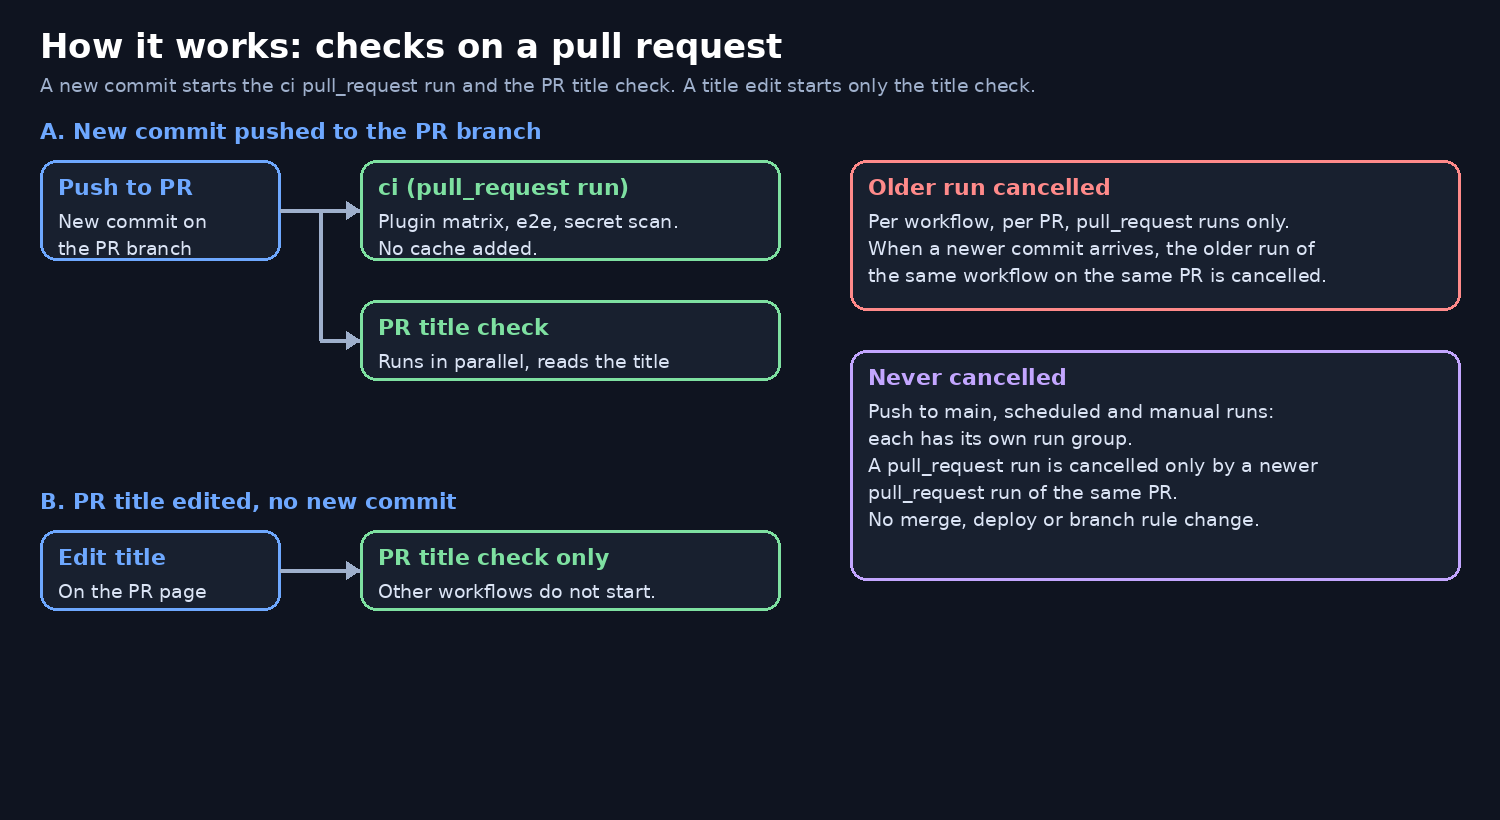
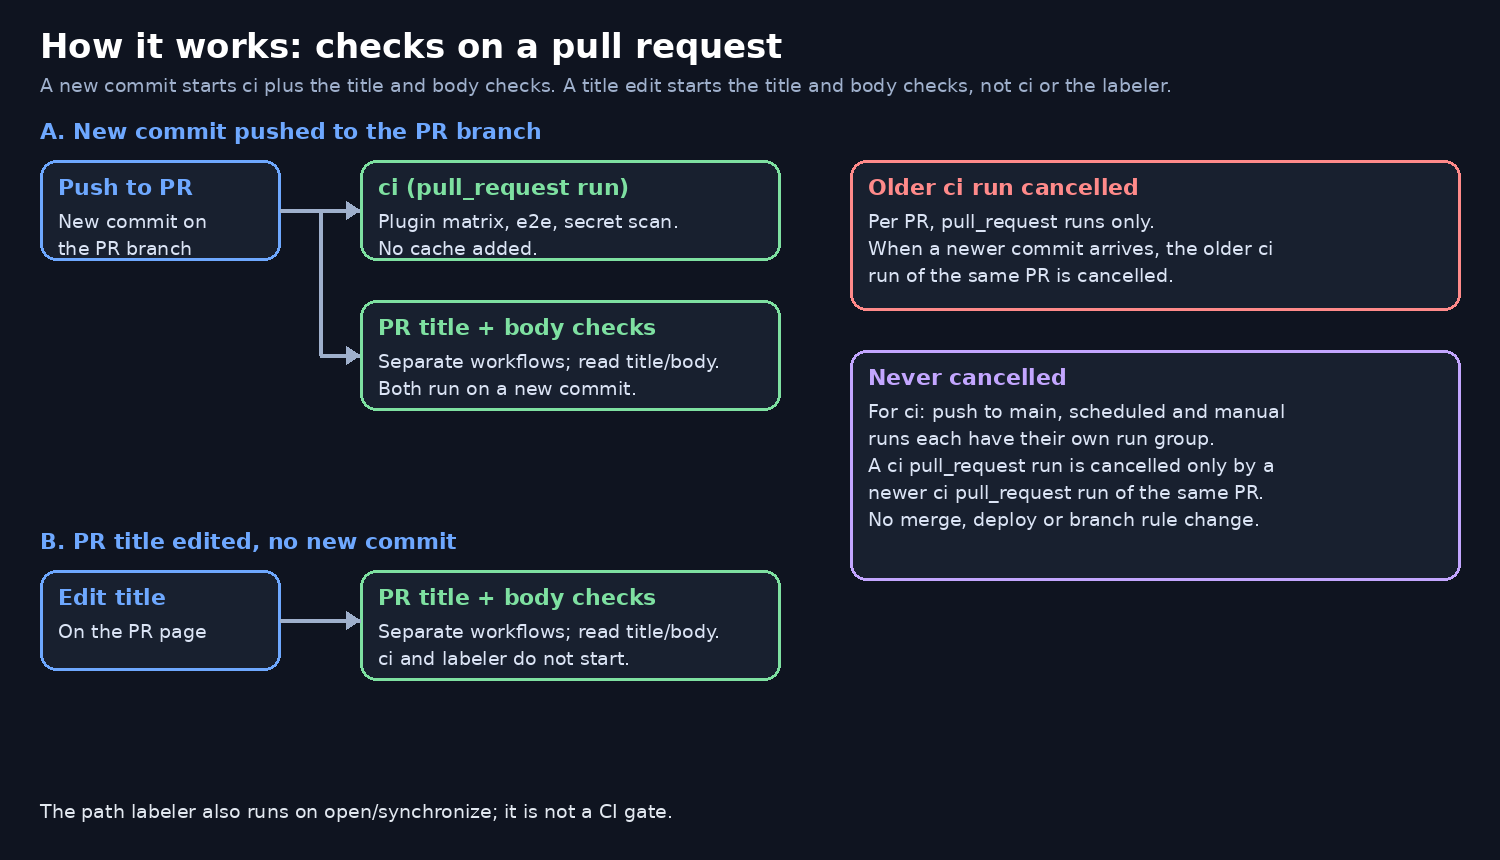
docs(ci): show title and body checks in the flow diagram
Current main adds pr-body-check on edited events, so the old "title check only" flow was stale.

🤖 Generated with Codebuff

diff --git a/docs/flows/ci-flow.py b/docs/flows/ci-flow.py
@@ -3,47 +3,48 @@ import os
 
 # Regenerates docs/assets/ci-flow.png. Needs Pillow (pip install pillow).
 # Run from anywhere: python3 docs/flows/ci-flow.py
-def font(names,size):
+def font(names, size):
     for n in names:
-        try: return ImageFont.truetype(n,size)
+        try: return ImageFont.truetype(n, size)
         except OSError: pass
     try: return ImageFont.load_default(size)
     except TypeError: return ImageFont.load_default()  # Pillow < 10.1 has no size argument
 
-DEJAVU="/usr/share/fonts/truetype/dejavu/"
-MAC="/System/Library/Fonts/Supplemental/"
-REG=["DejaVuSans.ttf",DEJAVU+"DejaVuSans.ttf","Arial.ttf",MAC+"Arial.ttf","C:/Windows/Fonts/arial.ttf"]
-BOLD=["DejaVuSans-Bold.ttf",DEJAVU+"DejaVuSans-Bold.ttf","Arial Bold.ttf",MAC+"Arial Bold.ttf","C:/Windows/Fonts/arialbd.ttf"]
+DEJAVU = "/usr/share/fonts/truetype/dejavu/"
+MAC = "/System/Library/Fonts/Supplemental/"
+REG = ["DejaVuSans.ttf", DEJAVU + "DejaVuSans.ttf", "Arial.ttf", MAC + "Arial.ttf", "C:/Windows/Fonts/arial.ttf"]
+BOLD = ["DejaVuSans-Bold.ttf", DEJAVU + "DejaVuSans-Bold.ttf", "Arial Bold.ttf", MAC + "Arial Bold.ttf", "C:/Windows/Fonts/arialbd.ttf"]
 
-W,H=1500,820
-im=Image.new("RGB",(W,H),"#0f1420"); d=ImageDraw.Draw(im)
-t=font(BOLD,34); b=font(BOLD,22); s=font(REG,19)
-G="#9fb0cc"
-d.text((40,26),"How it works: checks on a pull request",font=t,fill="#ffffff")
-d.text((40,74),"A new commit starts the ci pull_request run and the PR title check. A title edit starts only the title check.",font=s,fill=G)
+W, H = 1500, 860
+im = Image.new("RGB", (W, H), "#0f1420"); d = ImageDraw.Draw(im)
+t = font(BOLD, 34); b = font(BOLD, 22); s = font(REG, 19)
+G = "#9fb0cc"
+d.text((40, 26), "How it works: checks on a pull request", font=t, fill="#ffffff")
+d.text((40, 74), "A new commit starts ci plus the title and body checks. A title edit starts the title and body checks, not ci or the labeler.", font=s, fill=G)
 
-def box(x,y,w,h,title,lines,col):
-    d.rounded_rectangle((x,y,x+w,y+h),radius=16,fill="#18202f",outline=col,width=3)
-    d.text((x+18,y+14),title,font=b,fill=col)
-    for i,l in enumerate(lines): d.text((x+18,y+50+i*27),l,font=s,fill="#dbe4f5")
-def line(*p): d.line(p,fill=G,width=4)
-def head(x,y): d.polygon([(x,y),(x-14,y-9),(x-14,y+9)],fill=G)
+def box(x, y, w, h, title, lines, col):
+    d.rounded_rectangle((x, y, x + w, y + h), radius=16, fill="#18202f", outline=col, width=3)
+    d.text((x + 18, y + 14), title, font=b, fill=col)
+    for i, l in enumerate(lines): d.text((x + 18, y + 50 + i * 27), l, font=s, fill="#dbe4f5")
 
-d.text((40,118),"A. New commit pushed to the PR branch",font=b,fill="#6ea8ff")
-box(40,160,240,100,"Push to PR",["New commit on","the PR branch"],"#6ea8ff")
+def line(*p): d.line(p, fill=G, width=4)
+def head(x, y): d.polygon([(x, y), (x - 14, y - 9), (x - 14, y + 9)], fill=G)
+
+d.text((40, 118), "A. New commit pushed to the PR branch", font=b, fill="#6ea8ff")
+box(40, 160, 240, 100, "Push to PR", ["New commit on", "the PR branch"], "#6ea8ff")
 # Both checks start on synchronize. The ci push workflow is main-only.
-line(280,210,320,210); line(320,210,360,210); head(360,210)
-line(320,210,320,340); line(320,340,360,340); head(360,340)
-box(360,160,420,100,"ci (pull_request run)",["Plugin matrix, e2e, secret scan.","No cache added."],"#7ee0a1")
-box(360,300,420,80,"PR title check",["Runs in parallel, reads the title"],"#7ee0a1")
+line(280, 210, 320, 210); line(320, 210, 360, 210); head(360, 210)
+line(320, 210, 320, 355); line(320, 355, 360, 355); head(360, 355)
+box(360, 160, 420, 100, "ci (pull_request run)", ["Plugin matrix, e2e, secret scan.", "No cache added."], "#7ee0a1")
+box(360, 300, 420, 110, "PR title + body checks", ["Separate workflows; read title/body.", "Both run on a new commit."], "#7ee0a1")
+box(850, 160, 610, 150, "Older ci run cancelled", ["Per PR, pull_request runs only.", "When a newer commit arrives, the older ci", "run of the same PR is cancelled."], "#ff8a8a")
 
-box(850,160,610,150,"Older run cancelled",["Per workflow, per PR, pull_request runs only.","When a newer commit arrives, the older run of","the same workflow on the same PR is cancelled."],"#ff8a8a")
+yb = 570
+d.text((40, yb - 42), "B. PR title edited, no new commit", font=b, fill="#6ea8ff")
+box(40, yb, 240, 100, "Edit title", ["On the PR page"], "#6ea8ff")
+box(360, yb, 420, 110, "PR title + body checks", ["Separate workflows; read title/body.", "ci and labeler do not start."], "#7ee0a1")
+line(280, yb + 50, 320, yb + 50); line(320, yb + 50, 360, yb + 50); head(360, yb + 50)
 
-yb=530
-d.text((40,yb-42),"B. PR title edited, no new commit",font=b,fill="#6ea8ff")
-box(40,yb,240,80,"Edit title",["On the PR page"],"#6ea8ff")
-box(360,yb,420,80,"PR title check only",["Other workflows do not start."],"#7ee0a1")
-line(280,yb+40,320,yb+40); line(320,yb+40,360,yb+40); head(360,yb+40)
-
-box(850,350,610,230,"Never cancelled",["Push to main, scheduled and manual runs:","each has its own run group.","A pull_request run is cancelled only by a newer","pull_request run of the same PR.","No merge, deploy or branch rule change."],"#c3a6ff")
-im.save(os.path.normpath(os.path.join(os.path.dirname(os.path.abspath(__file__)),"..","assets","ci-flow.png")))
+box(850, 350, 610, 230, "Never cancelled", ["For ci: push to main, scheduled and manual", "runs each have their own run group.", "A ci pull_request run is cancelled only by a", "newer ci pull_request run of the same PR.", "No merge, deploy or branch rule change."], "#c3a6ff")
+d.text((40, 800), "The path labeler also runs on open/synchronize; it is not a CI gate.", font=s, fill="#e2e8f0")
+im.save(os.path.normpath(os.path.join(os.path.dirname(os.path.abspath(__file__)), "..", "assets", "ci-flow.png")))
